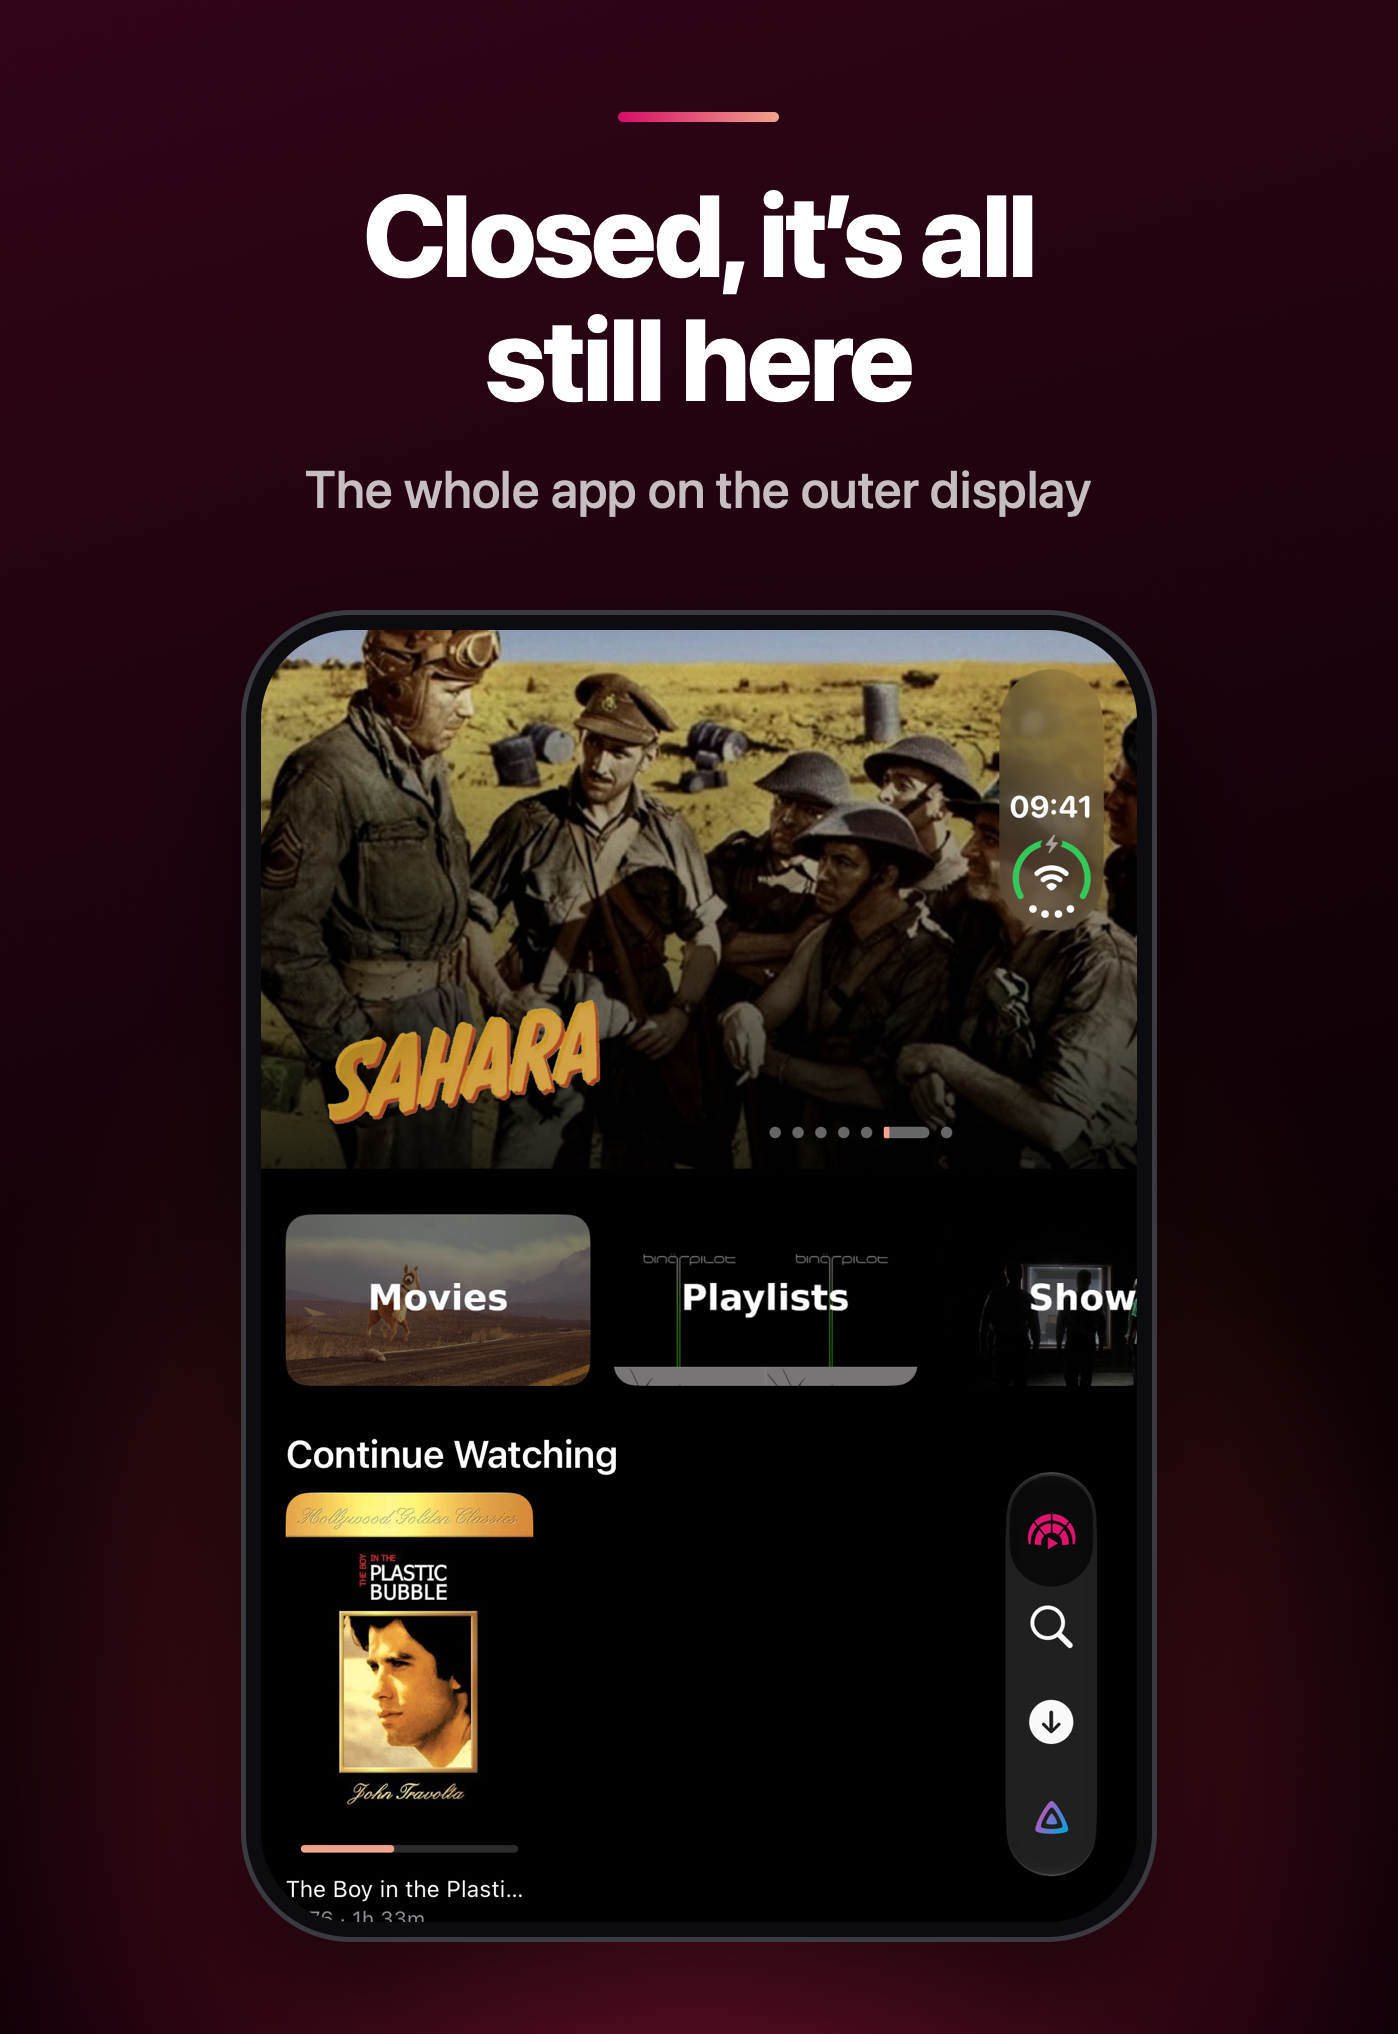
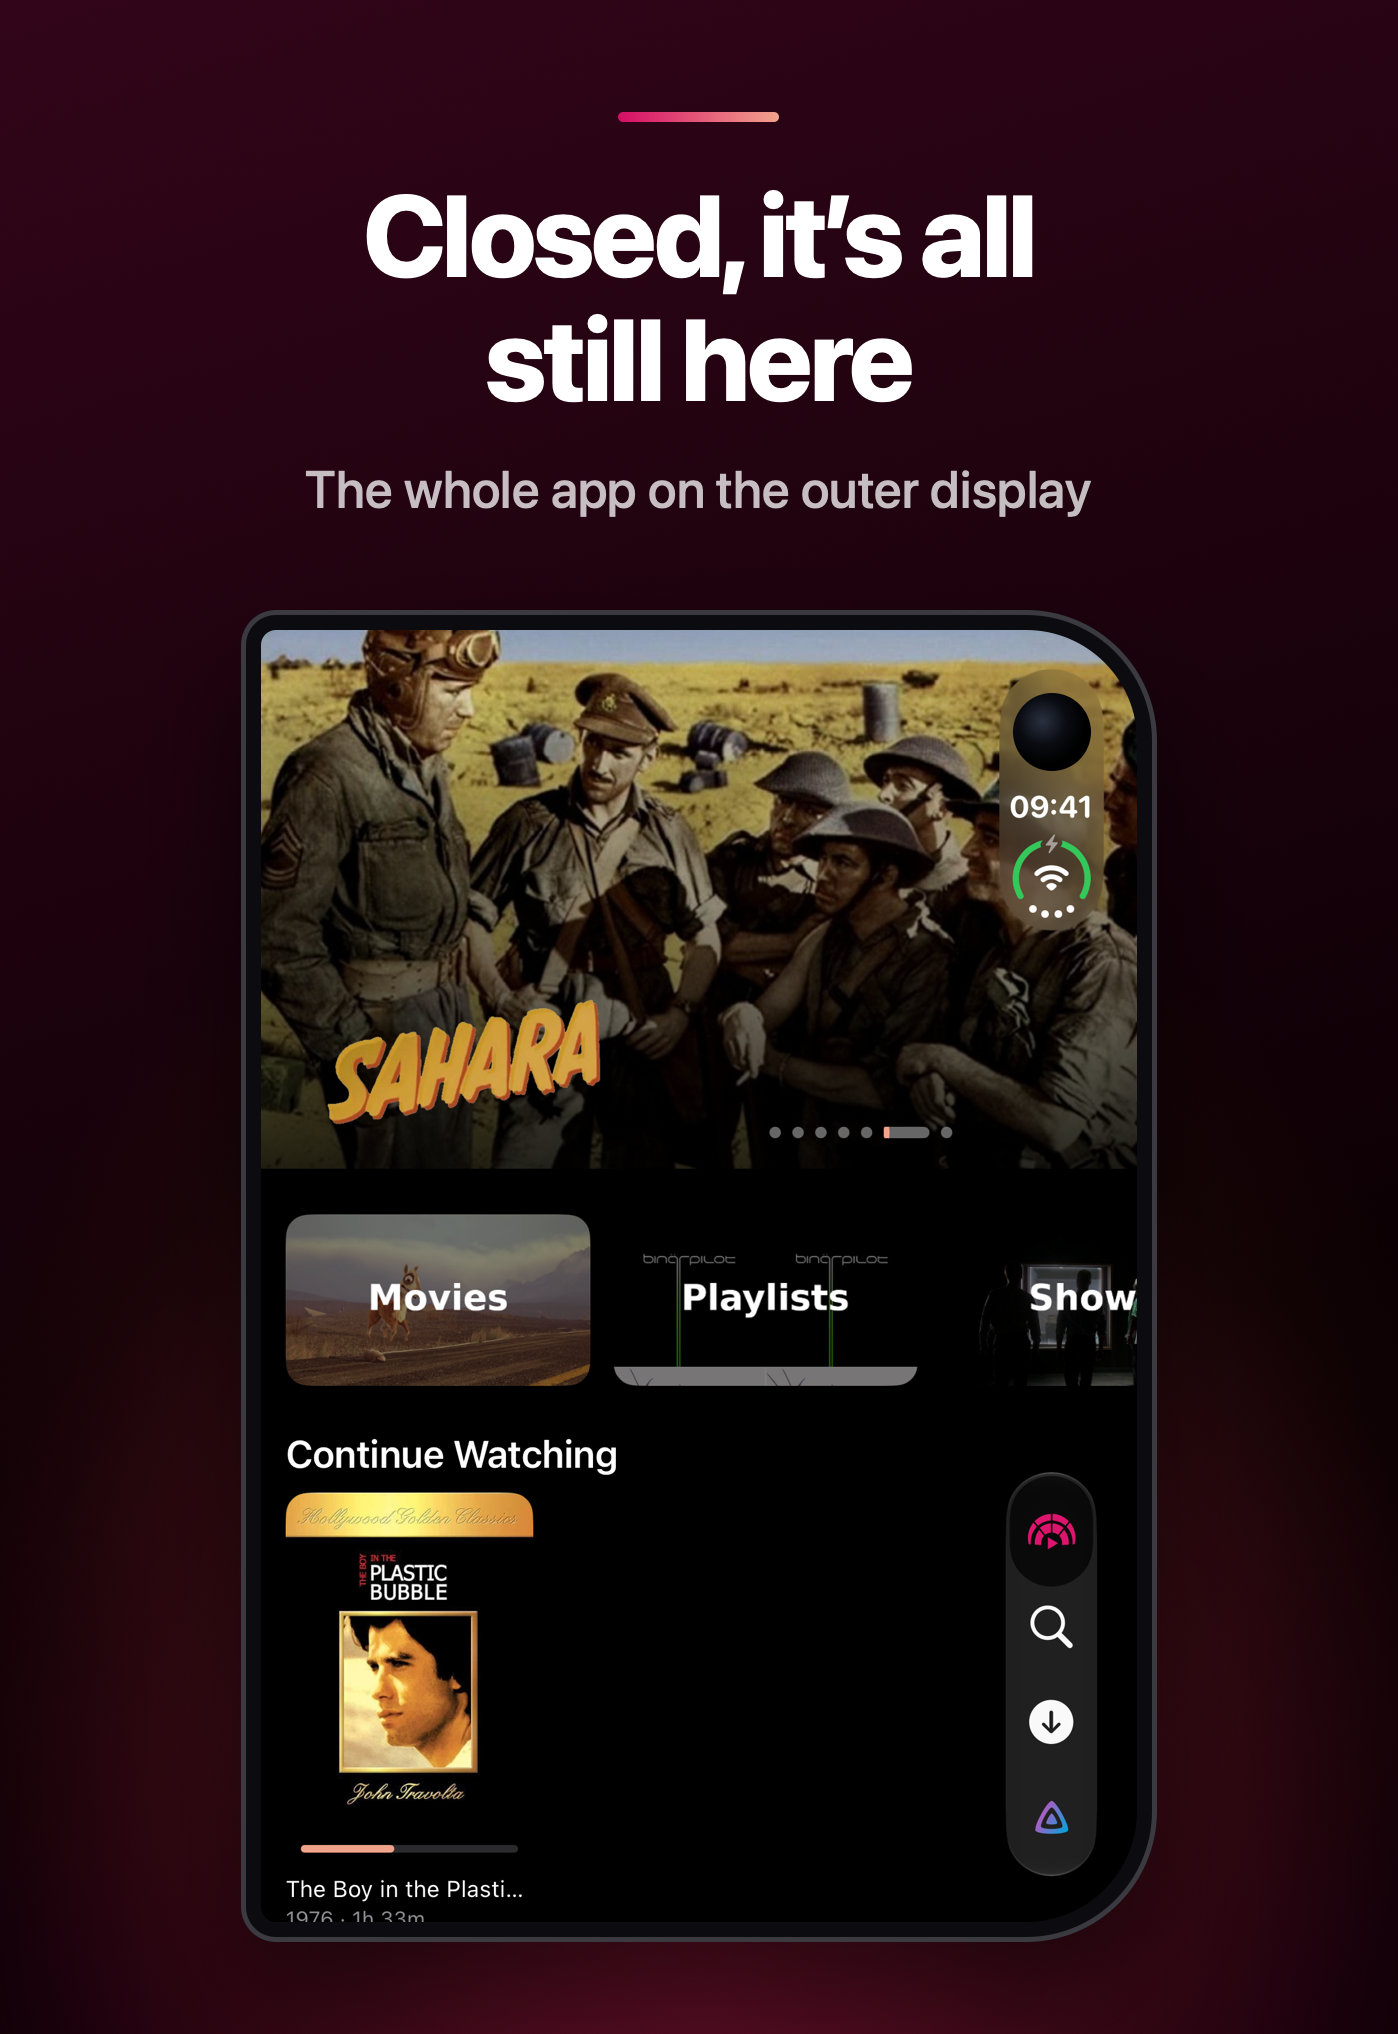
Draw the closed Duo with its real corners and camera on store slide 6
The outer display's frame takes the Simulator profile's corner radii, 8pt
on the hinge side and 59pt on the other, and shows the camera centred in
the gap the vertical status bar leaves above the clock, as wide as the
status ring below it, mapped through the capture's own scaling.

diff --git a/Scripts/store-screenshots/gen.py b/Scripts/store-screenshots/gen.py
@@ -75,6 +75,17 @@ DUO_SLIDES = [
 
 DUO_SIZES = {"wide": (2853, 2007), "tall": (2007, 2853), "outer": (1398, 2034)}
 
+# The closed phone's outer display, from the Simulator's device profile
+# (/Library/Developer/CoreSimulator/Profiles/DeviceTypes/iPhone Duo.simdevicetype,
+# capabilities.plist): 466x678pt, its corners 8pt on the hinge side (left)
+# and 59pt on the other. The camera sits at the top of the vertical status
+# bar, centred in the gap the system leaves above the clock, as wide as the
+# status ring below it; centre and diameter in the capture's pixels
+# (1398x2034), measured from the clock, the ring and the pill's top edge.
+OUTER_PT_W = 466
+OUTER_HINGE_R, OUTER_EDGE_R = 8, 59
+OUTER_CAMERA = dict(x=1254, y=160, d=123)
+
 
 def build_duo(idx, slide, outdir):
     """An iPhone Duo slide: the series backdrop and copy over a CSS-drawn
@@ -96,9 +107,25 @@ def build_duo(idx, slide, outdir):
         dev_h = round(H * 0.655)
         dev_w = round(dev_h * sw / sh)
         head_size, sub_size = round(W * 0.082), round(W * 0.037)
-    radius = round(min(dev_w, dev_h) * (0.06 if held != "outer" else 0.12))
+    radius = round(min(dev_w, dev_h) * 0.06)
     bezel = round(min(dev_w, dev_h) * 0.022)
     inner = radius - bezel
+    # CSS border-radius order: top-left, top-right, bottom-right, bottom-left.
+    dev_r, img_r, camera = f"{radius}px", f"{inner}px", ""
+    if held == "outer":
+        k = (dev_w - 2 * bezel) / OUTER_PT_W
+        hinge, edge = round(OUTER_HINGE_R * k), round(OUTER_EDGE_R * k)
+        img_r = f"{hinge}px {edge}px {edge}px {hinge}px"
+        dev_r = f"{hinge + bezel}px {edge + bezel}px {edge + bezel}px {hinge + bezel}px"
+        # Mapped as the img's object-fit:cover maps the capture, so the
+        # camera stays on the status bar whatever the frame's rounding.
+        sw_px, sh_px = dev_w - 2 * bezel, dev_h - 2 * bezel
+        s = max(sw_px / sw, sh_px / sh)
+        ox, oy = (sw_px - sw * s) / 2, (sh_px - sh * s) / 2
+        d = OUTER_CAMERA["d"] * s
+        camera = (f'<div class="camera" style="width:{d:.1f}px;height:{d:.1f}px;'
+                  f'left:{bezel + ox + OUTER_CAMERA["x"] * s - d / 2:.1f}px;'
+                  f'top:{bezel + oy + OUTER_CAMERA["y"] * s - d / 2:.1f}px"></div>')
     if held == "wide":
         crease = (f'<div class="crease" style="left:50%;top:{bezel}px;bottom:{bezel}px;width:{max(3, round(dev_w*0.0016))}px;'
                   f'transform:translateX(-50%);background:linear-gradient(90deg,rgba(0,0,0,.30),rgba(255,255,255,.16),rgba(0,0,0,.30))"></div>')
@@ -143,17 +170,19 @@ def build_duo(idx, slide, outdir):
   .copy p{{font-size:{sub_size}px;font-weight:500;line-height:1.3;margin-top:{round(min(W, H)*0.025)}px;color:rgba(255,255,255,.74)}}
   .copy.wide p{{text-align:right;margin:0;padding-bottom:{round(H*0.008)}px}}
   .device{{
-    width:{dev_w}px;height:{dev_h}px;border-radius:{radius}px;padding:{bezel}px;
+    width:{dev_w}px;height:{dev_h}px;border-radius:{dev_r};padding:{bezel}px;
     position:relative;background:#0C0C10;z-index:1;
     box-shadow:0 {round(H*0.03)}px {round(H*0.08)}px rgba(0,0,0,.55),
                inset 0 0 0 {max(3,round(min(W, H)*0.0035))}px #3A3A40;
   }}
-  .device img{{width:100%;height:100%;object-fit:cover;display:block;border-radius:{inner}px}}
+  .device img{{width:100%;height:100%;object-fit:cover;display:block;border-radius:{img_r}}}
   .crease{{position:absolute;z-index:2;pointer-events:none}}
+  .camera{{position:absolute;z-index:2;border-radius:50%;
+    background:radial-gradient(circle at 38% 36%, #2A3140 0, #0A0C12 34%, #000 62%)}}
 </style></head>
 <body>
   {copy}
-  <div class="device"><img src="./{slide["shot"]}">{crease}</div>
+  <div class="device"><img src="./{slide["shot"]}">{crease}{camera}</div>
 </body></html>'''
     if slide.get("pose") in ("book", "tabletop"):
         html = html.replace(
